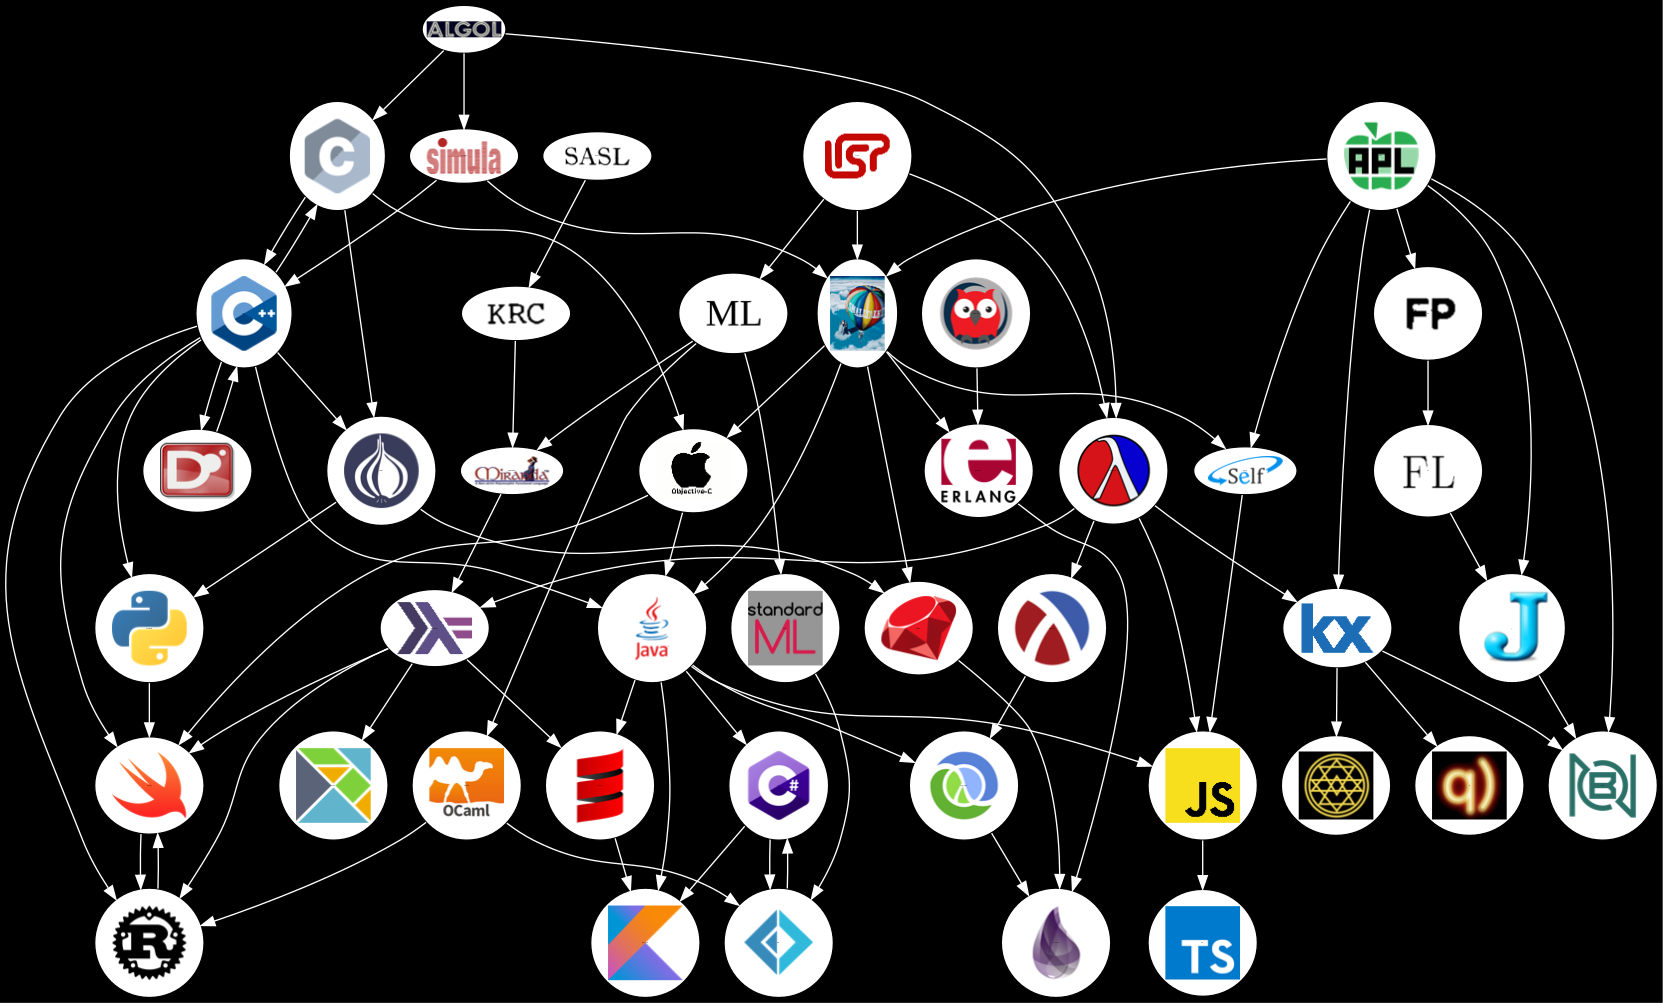
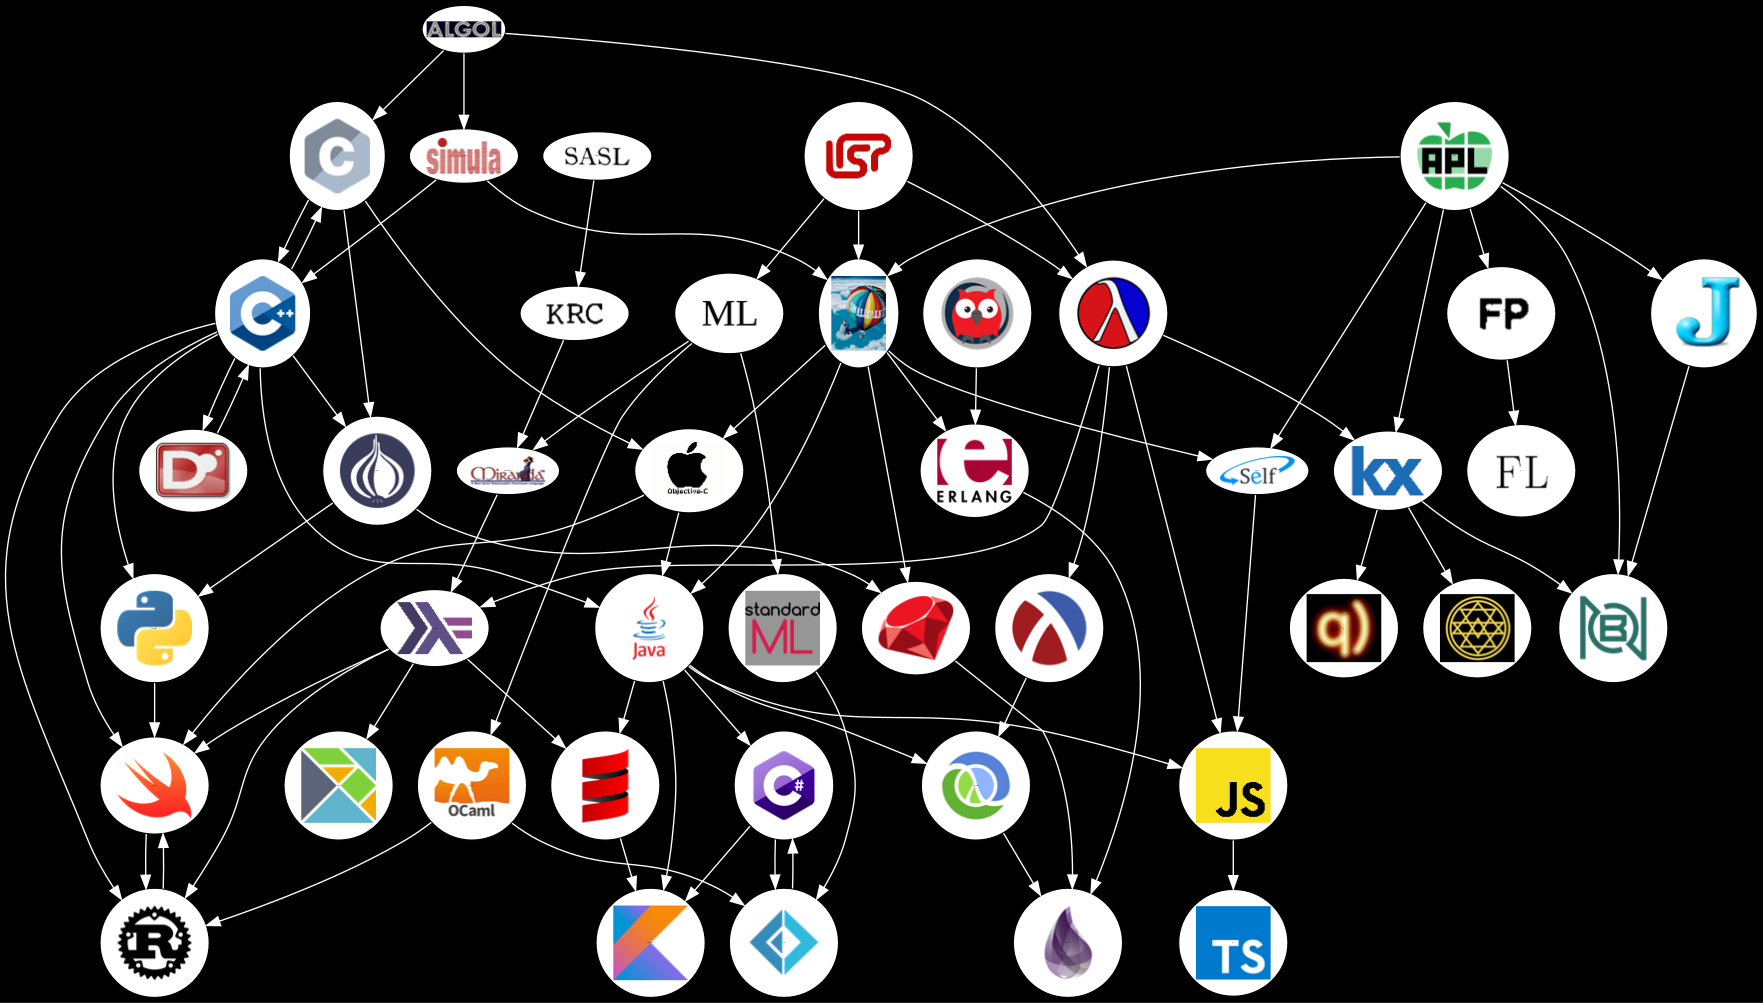
Update

diff --git a/plgraph-graphviz.py b/plgraph-graphviz.py
@@ -96,7 +96,7 @@ dependencies_light = {
                  'FL'       : ['FP'],
                  'FP'       : ['APL'],
                  'HASKELL'  : ['SCHEME', 'MIRANDA'],                        # CLEAN FP ISWIM Miranda SML SASL SISAL
-                 'J'        : ['APL','FL'],
+                 'J'        : ['APL'],
                  'JAVA'     : ['SMALLTALK', 'CPP', 'OBJC'],                 # CLU ADA EIFFEL modula 3 oberon pascal
                  'JS'       : ['SELF', 'JAVA', 'SCHEME'],
                  'K'        : ['APL', 'SCHEME'],                            # scheme
